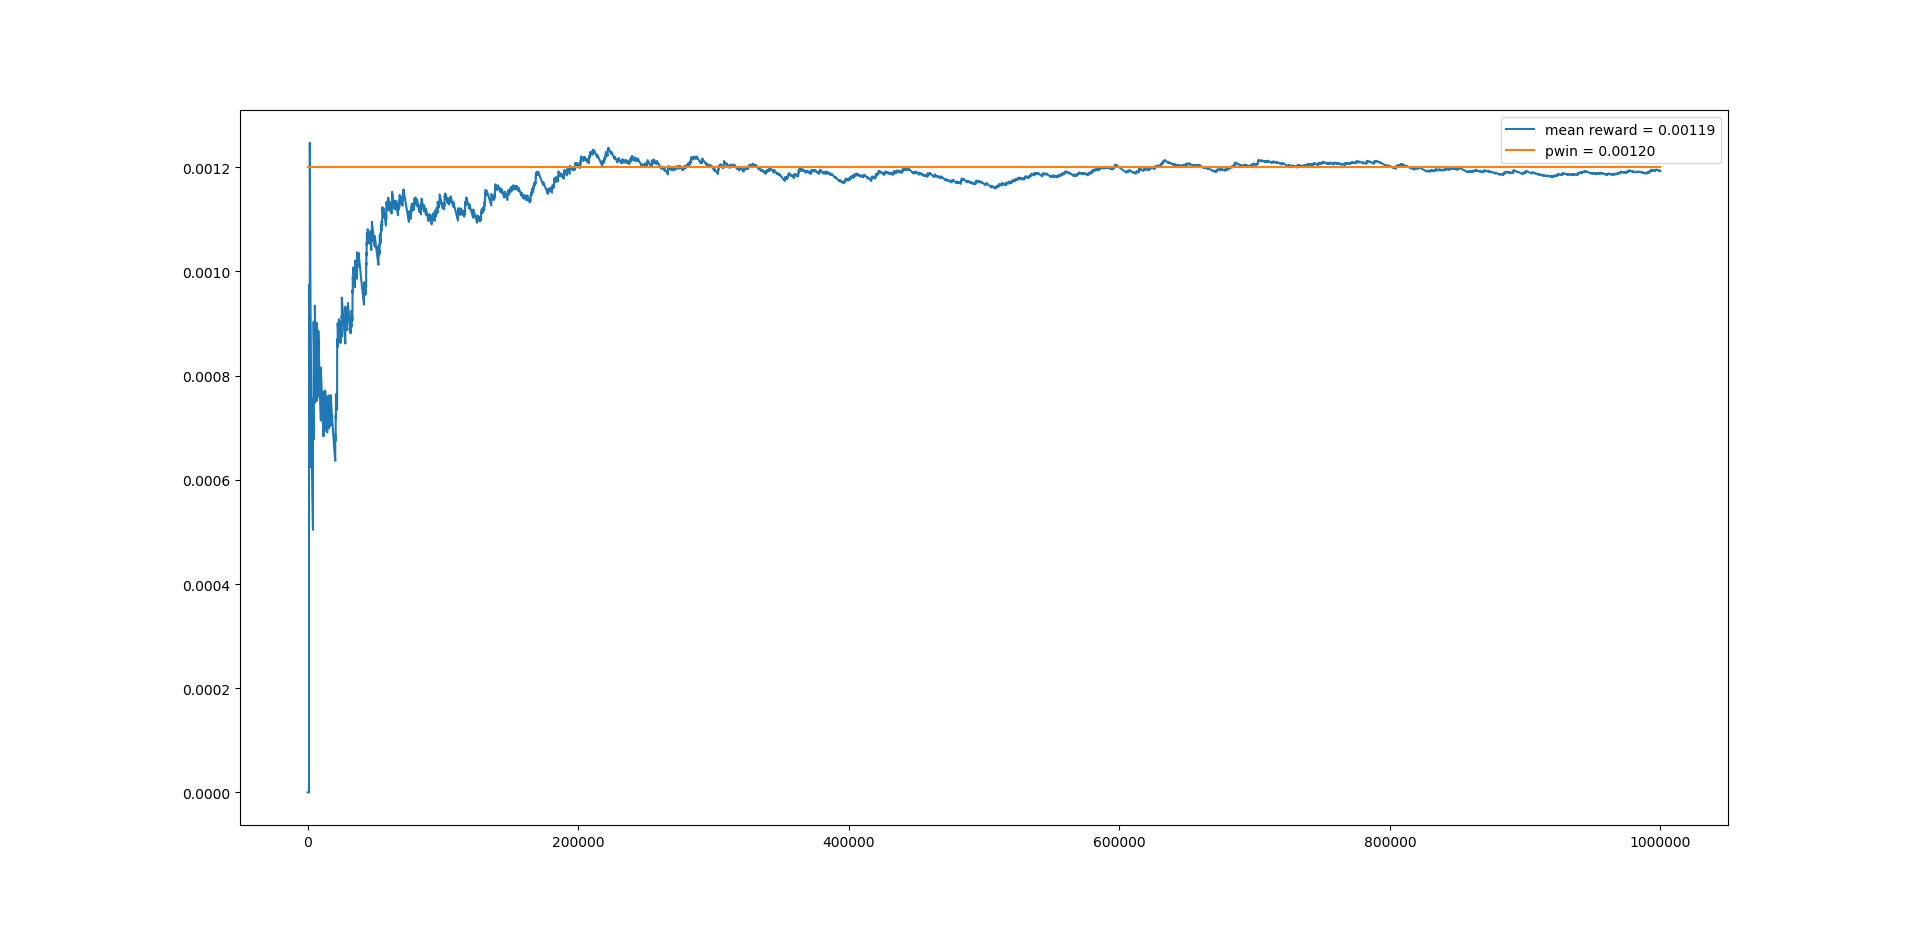
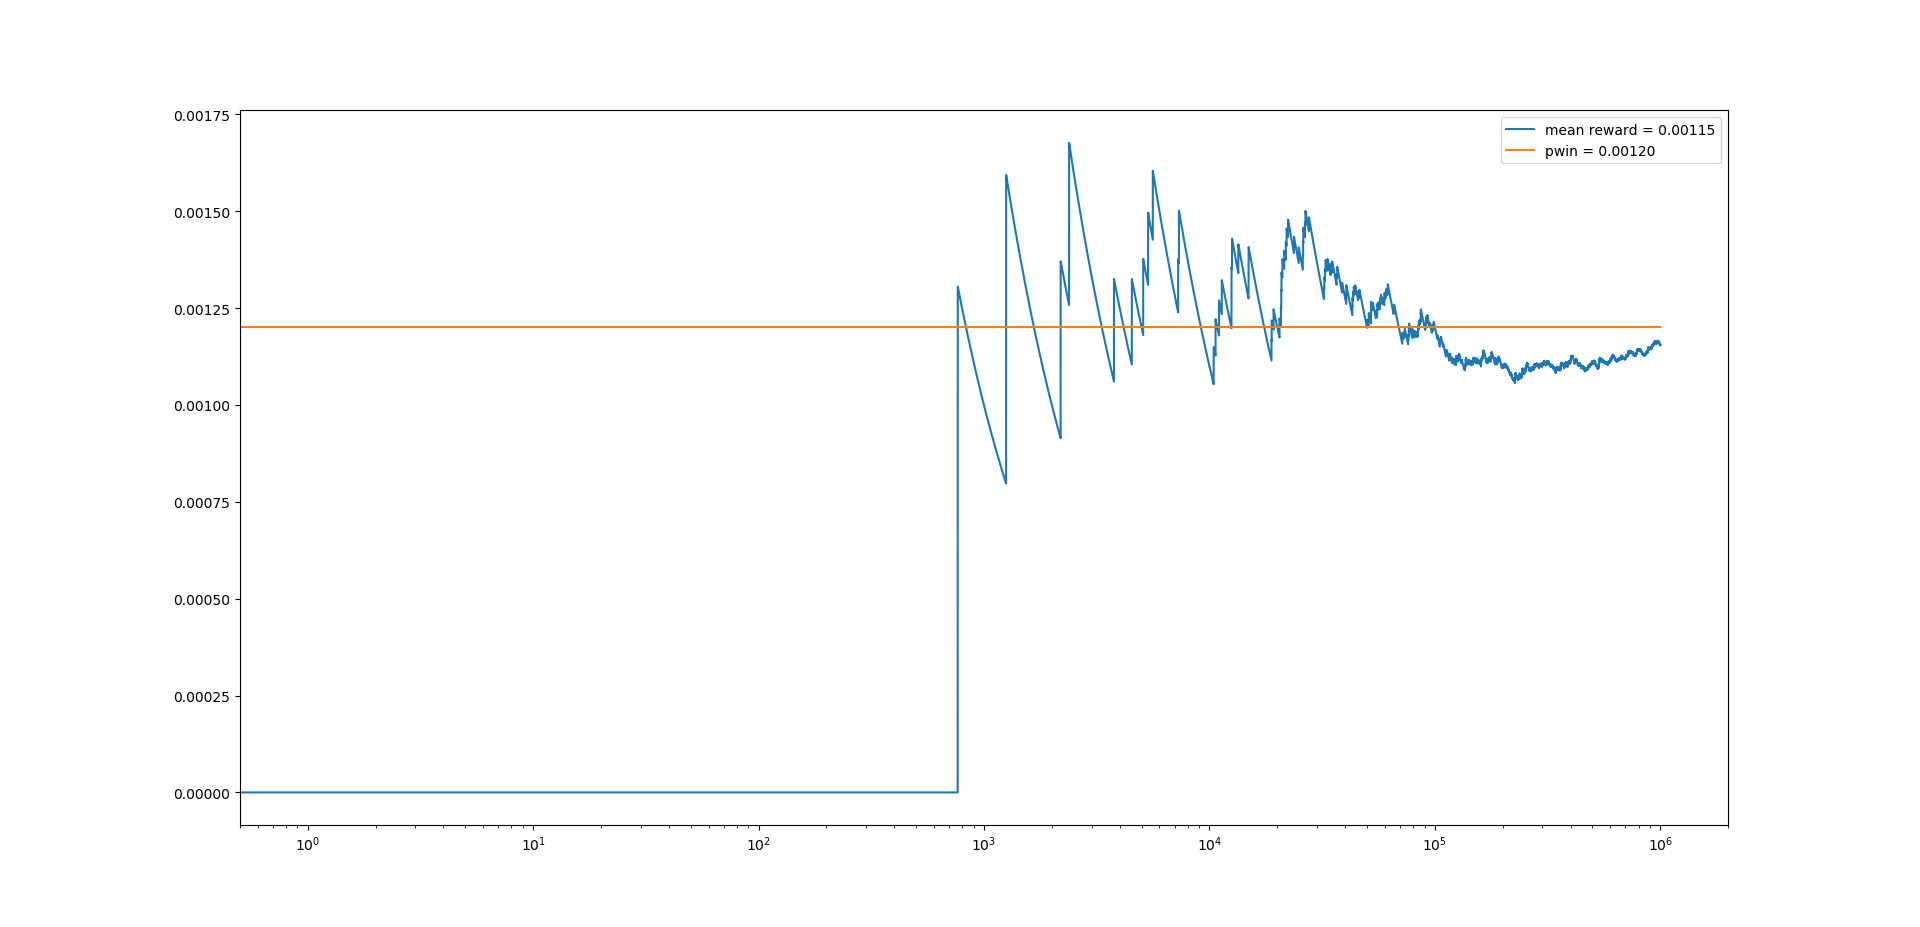
New version!

diff --git a/src/epsilongreedy/Experiment.py b/src/epsilongreedy/Experiment.py
@@ -28,7 +28,7 @@ class Experiment:
             plt.plot([0, n - 1], [bandits[i].pwin, bandits[i].pwin], label='pwin = {0:.5f}'.format(bandits[i].pwin))
             print('Bandit #{0} : q = {1:.5f}  pwin = {2:.5f}'.format(i, agent.q[i], bandits[i].pwin))
 
-        plt.xscale('linear')
+        plt.xscale('log')
         plt.legend()
         plt.show()
 

diff --git a/src/randompolicy/Experiment.py b/src/randompolicy/Experiment.py
@@ -27,7 +27,7 @@ class Experiment:
             plt.plot([0, n - 1], [bandits[i].pwin, bandits[i].pwin], label='pwin = {0:.5f}'.format(bandits[i].pwin))
             print('Bandit #{0} : q = {1:.5f}  pwin = {2:.5f}'.format(i, agent.q[i], bandits[i].pwin))
 
-        plt.xscale('linear')
+        plt.xscale('log')
         plt.legend()
         plt.show()
 

diff --git a/src/base/Experiment.py b/src/base/Experiment.py
@@ -26,7 +26,7 @@ class Experiment:
         plt.plot([0, n - 1], [bandit.pwin, bandit.pwin], label='pwin = {0:.5f}'.format(bandit.pwin))
         print('q = {0:.5f}  pwin = {1:.5f}'.format(agent.q, bandit.pwin))
 
-        plt.xscale('linear')
+        plt.xscale('log')
         plt.legend()
         plt.show()
 

diff --git a/doc/README.md b/doc/README.md
@@ -145,11 +145,10 @@ class Experiment:
         rewards_trend: List[float] = np.cumsum(r) / np.arange(1, n + 1)
         plt.plot(rewards_trend, label='mean reward = {0:.5f}'.format(rewards_trend[-1]))
 
-        plt.plot([0, n - 1], [bandit.pwin, bandit.pwin],
-                 label='pwin = {0:.5f}'.format(bandit.pwin))
+        plt.plot([0, n - 1], [bandit.pwin, bandit.pwin], label='pwin = {0:.5f}'.format(bandit.pwin))
         print('q = {0:.5f}  pwin = {1:.5f}'.format(agent.q, bandit.pwin))
 
-        plt.xscale('linear')
+        plt.xscale('log')
         plt.legend()
         plt.show()
 
@@ -162,7 +161,7 @@ La classe ```Experiment``` ha il metodo statico ```main``` che crea l'oggetto ra
 ![](first_test.png)
 
 ```
-q = 0.00119  pwin = 0.00120
+q = 0.00115  pwin = 0.00120
 ```
 
 Ok, funziona ma non dimentichiamo che l'obiettivo è modellare il giocatore in modo che possa individuare  la slot machine con la probabilità di vincere più favorevole, per cui modifichiamo la classe ```Agent```: 
@@ -196,13 +195,13 @@ class Agent:
         return r
 ```
 
-L'attributo ```bandit``` ha lasciato il posto a ```bandits``` che contiene la lista delle slot machine cui giocare, mentre gli attributi ```k``` e ```q``` sono diventati anch'essi delle liste contenenti per ogni slot machine il numero di volte che il giocatore ha giocato e la probabilità stimata di vincere.
+L'attributo ```bandit``` ha lasciato il posto a ```bandits``` che contiene la lista delle slot machine cui giocare, mentre gli attributi ```k``` e ```q``` sono diventati anch'essi delle liste contenenti per ogni slot machine il numero di volte che il giocatore ha giocato e la probabilità stimata di vincere. Si è aggiunto l'attributo ```n``` che contiene il numero di slot machine.
 
 E' stato aggiunto il metodo ```choose()``` che in maniera casuale con una distribuzione uniforme sceglie la slot machine cui giocare.
 
 I metodi ```do(int)``` ed ```update(int, float)``` sono stati modificati in modo da accettare come parametro di input l'indicazione della slot machine cui giocare, mentre il metodo ```play()``` prima di chiamare in sequenza i due metodi, invoca ```choose()```.
 
-Facciamo un altro esperimento e verifichiamo che la classe ```Agent``` riesca ad individuare la slot machine con la probabilità di vincere più favorevole:
+Facciamo un altro esperimento con tre slot machine e verifichiamo che la classe ```Agent``` riesca ad individuare quella con la probabilità di vincere più favorevole:
 
 ```python
 from typing import List
@@ -233,7 +232,7 @@ class Experiment:
             plt.plot([0, n - 1], [bandits[i].pwin, bandits[i].pwin], label='pwin = {0:.5f}'.format(bandits[i].pwin))
             print('Bandit #{0} : q = {1:.5f}  pwin = {2:.5f}'.format(i, agent.q[i], bandits[i].pwin))
 
-        plt.xscale('linear')
+        plt.xscale('log')
         plt.legend()
         plt.show()
 
@@ -241,8 +240,128 @@ if __name__ == "__main__":
     Experiment.main()
 ```
 
+![](random_policy.png)
 
+```
+Bandit #0 : q = 0.00118  pwin = 0.00120
+Bandit #1 : q = 0.00106  pwin = 0.00110
+Bandit #2 : q = 0.00096  pwin = 0.00090
+```
+Cosa possiamo osservare?
 
+1. La probabilità media stimata di vincere è 0.00107, esattamente uguale a quella teorica ossia, considerando che le giocate sono uniformemente distribuite fra le 3 slot machine è:
+
+$$
+\large \frac{0.00120 + 0.0011 + 0.0009}{3}=0.00107
+$$
+
+2. Siamo riusciti ad individuare la slot machine con la probabilità di vincere a noi più favorevole, ossia è quella che ha il valore di ```q``` più alto, ossia la prima.
+
+3. Non abbiamo sfruttato quest'ultima informazione, in quanto abbiamo adoperato tutte le giocate e quindi tutte i gettoni a nostra disposizione, solo per individuare la slot machine migliore con la quale giocare, ma poi non ci abbiamo giocato.
+
+Miglioriamo il nostro ```Agent``` e facciamo in modo che una parte delle giocate sia adoperata per individuare la slot machine migliore con cui giocare e la parte restante per giocare alla migliore:
+
+```python
+from typing import List
+from base.Bandit import Bandit
+import numpy as np
+
+class Agent:
+    def __init__(self, epsilon: float, bandits: List[Bandit]):
+        self.epsilon: float = epsilon
+        self.bandits: List[Bandit] = bandits
+        self.n: int = len(bandits)
+        self.k: List[int] = [0] * self.n
+        self.q: List[float] = [0] * self.n
+
+    def choose(self) -> int:
+        a: int = 0
+        p: float = np.random.random()
+        if p < self.epsilon:
+            a = np.random.choice(self.n)
+        else:
+            a = np.argmax(self.q)
+        return a
+
+    def do(self, a: int) -> float:
+        return self.bandits[a].interact()
+
+    def update(self, a: int, r: float):
+        self.q[a] += (r - self.q[a]) / (self.k[a] + 1)
+        self.k[a] += 1
+
+    def play(self) -> int:
+        a: int = self.choose()
+        r: float = self.do(a)
+        self.update(a, r)
+        return r
+```
+
+Vediamo cos'è cambiato:
+
+- è stato aggiunto l'attributo ```epsilon``` che indica la percentuale delle giocate da adoperare per la ricerca della slot machine migliore; se ```epsilon=0.05``` significa che il 5% delle giocate verrà adoperato a questo scopo;
+- il metodo ```choose()``` genera un numero casuale uniformemente distribuito fa 0 ed 1, se questo è inferiore a ```epsilon``` la slot machine viene scelta a caso come prima, altrimenti si sceglie quella che fino a quel momento ha la probabilità stimata di vincere più alta.
+
+Facciamo un esperimento:
+
+```python
+from typing import List
+from base.Bandit import Bandit
+from epsilongreedy.Agent import Agent
+import numpy as np
+import matplotlib.pyplot as plt
+
+class Experiment:
+    @staticmethod
+    def main():
+        reels: int = 3
+        symbols: int = 10
+        deltas: List[float] = [0.0002, 0.0001, -0.0001]
+        epsilon: float = 0.05
+        n: int = 1000000
+
+        bandits: List[Bandit] = [Bandit(reels, symbols, delta) for delta in deltas]
+        agent: Agent = Agent(epsilon, bandits)
+
+        r: List[int] = [0] * n
+        for i in range(n):
+            r[i] = agent.play()
+
+        rewards_trend: List[float] = np.cumsum(r) / np.arange(1, n + 1)
+        plt.plot(rewards_trend, label='mean reward = {0:.5f}'.format(rewards_trend[-1]))
+
+        for i in range(len(bandits)):
+            plt.plot([0, n - 1], [bandits[i].pwin, bandits[i].pwin], label='pwin = {0:.5f}'.format(bandits[i].pwin))
+            print('Bandit #{0} : q = {1:.5f}  pwin = {2:.5f}'.format(i, agent.q[i], bandits[i].pwin))
+
+        plt.xscale('log')
+        plt.legend()
+        plt.show()
+
+if __name__ == "__main__":
+    Experiment.main()
+```
+![](epsilon_greedy_policy.png)
+
+```
+Bandit #0 : q = 0.00120  pwin = 0.00120
+Bandit #1 : q = 0.00101  pwin = 0.00110
+Bandit #2 : q = 0.00110  pwin = 0.00090
+```
+
+La cosa che balza all'occhio è che adesso la probabilità che abbiamo di vincere è salita a 0.00119 e, considerando che la massima teorica è 0.0012, possiamo ritenerci più che soddisfatti.
+
+## Cosa abbiamo imparato?
+
+Bene... traiamo le nostre conclusioni.
+
+Tanto per cominciare ci tocca continuare a lavorare perché in questo modo non diventeremo mai ricchi: abbiamo dovuto fare 1000000 di giocate e, ipotizzando che ogni gettone costi 50 centesimi di €, dovremmo spendere 500000 € ed in teoria potremmo vincere circa 417 € nell'ipotesi che tutto l'incasso sia convertito in montepremi, cosa ovviamente irrealistica.
+
+Non è tutto perduto però perché abbiamo imparato senza volerlo alcuni concetti fondamentali dell'apprendimento con rinforzo e questo magari potrebbe stimolare il nostro interesse per questo argomento e magari un domani potremmo diventare il CEO della Cyberdyne e produrre i nostri Terminator...
+
+Per cominciare nell'apprendimento con rinforzo ...
+
+PARLARE DEL PROBLEMA DELL'EXPLORATION-EXPLOITATION!!!
 
 ### APPUNTI  ADDESTRAMENTO  CON  RINFORZO
 
